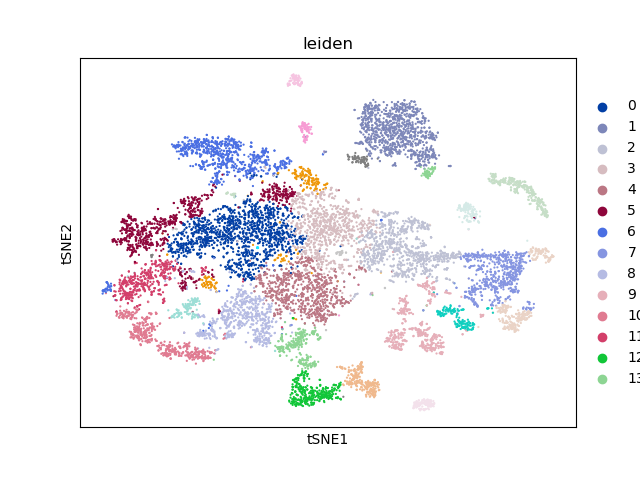
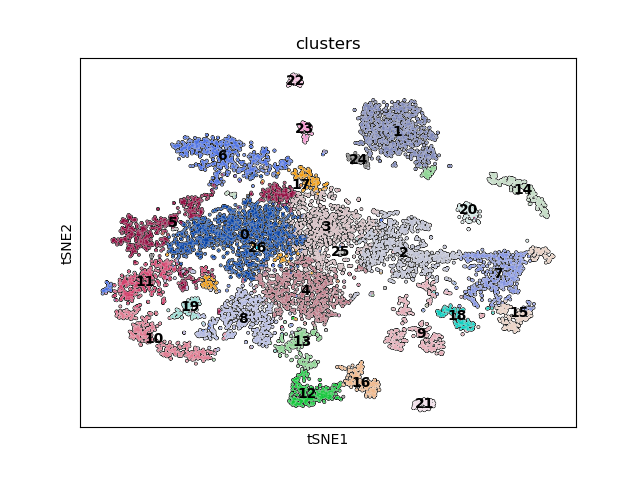
week11-hw update

diff --git a/week11-hw/scRNA.py b/week11-hw/scRNA.py
@@ -5,25 +5,73 @@ adata.var_names_make_unique()
 
 #Step 1
 sc.tl.pca(adata)
-#sc.pl.pca(adata)
+sc.pl.pca(adata)
 
 sc.pp.recipe_zheng17(adata)
 
 sc.tl.pca(adata)
-#sc.pl.pca(adata)
+sc.pl.pca(adata)
 
 #Step 2
 sc.pp.neighbors(adata)
 sc.tl.leiden(adata)
-#sc.tl.umap(adata, maxiter=1000)
-#sc.pl.umap(adata, color='leiden')
+sc.tl.umap(adata, maxiter=1000)
+sc.pl.umap(adata, color='leiden')
 
-#sc.tl.tsne(adata)
-#sc.pl.tsne(adata, color='leiden')
+sc.tl.tsne(adata)
+sc.pl.tsne(adata, color='leiden', add_outline=True, legend_loc='on data')
 
 #Step 3
 sc.tl.rank_genes_groups(adata, 'leiden', method='t-test')
 sc.pl.rank_genes_groups(adata, n_genes=25, sharey=False)
 
 sc.tl.rank_genes_groups(adata, 'leiden', method='logreg')
-sc.pl.rank_genes_groups(adata, n_genes=25, sharey=False)
+sc.pl.rank_genes_groups(adata, n_genes=25, sharey=False, save = "rank_genes.png")
+
+
+
+#Step 4
+genes = adata.var.gene_ids.index
+print(genes[131:150])
+ctss=microglia
+col3a1=fibroblast
+ackr3=endothelial cell
+prox1=horizontal cells
+Hbb-bt=neutrophils
+Cd93=adipocytes
+markers = ['Ctss', 'Col3a1', 'Ackr3', 'Prox1', 'Hbb-bt', 'Cd93']
+for each in markers:
+    sc.pl.tsne(adata, color=each)
+    
+cell_labels = {
+    '0': '',
+    '1': 'endothelial_cell',
+    '2': '',
+    '3': '',
+    '4': '',
+    '5': '',
+    '6': '',
+    '7': '',
+    '8': '',
+    '9': '',
+    '10': '',
+    '11': '',
+    '12': 'horizontal_cell',
+    '13': '',
+    '14': 'neutrophil',
+    '15': '',
+    '16': '',
+    '17': '',
+    '18': '',
+    '19': '',
+    '20': 'adipocyte',
+    '21': '',
+    '22': 'fibroblast',
+    '23': 'microglia',
+    '24': '',
+    '25': '',
+    '26': ''
+}
+
+adata.obs['cell type'] = adata.obs['leiden'].map(cell_labels).astype('category')
+sc.pl.tsne(adata, color='cell type', legend_loc='on data')
